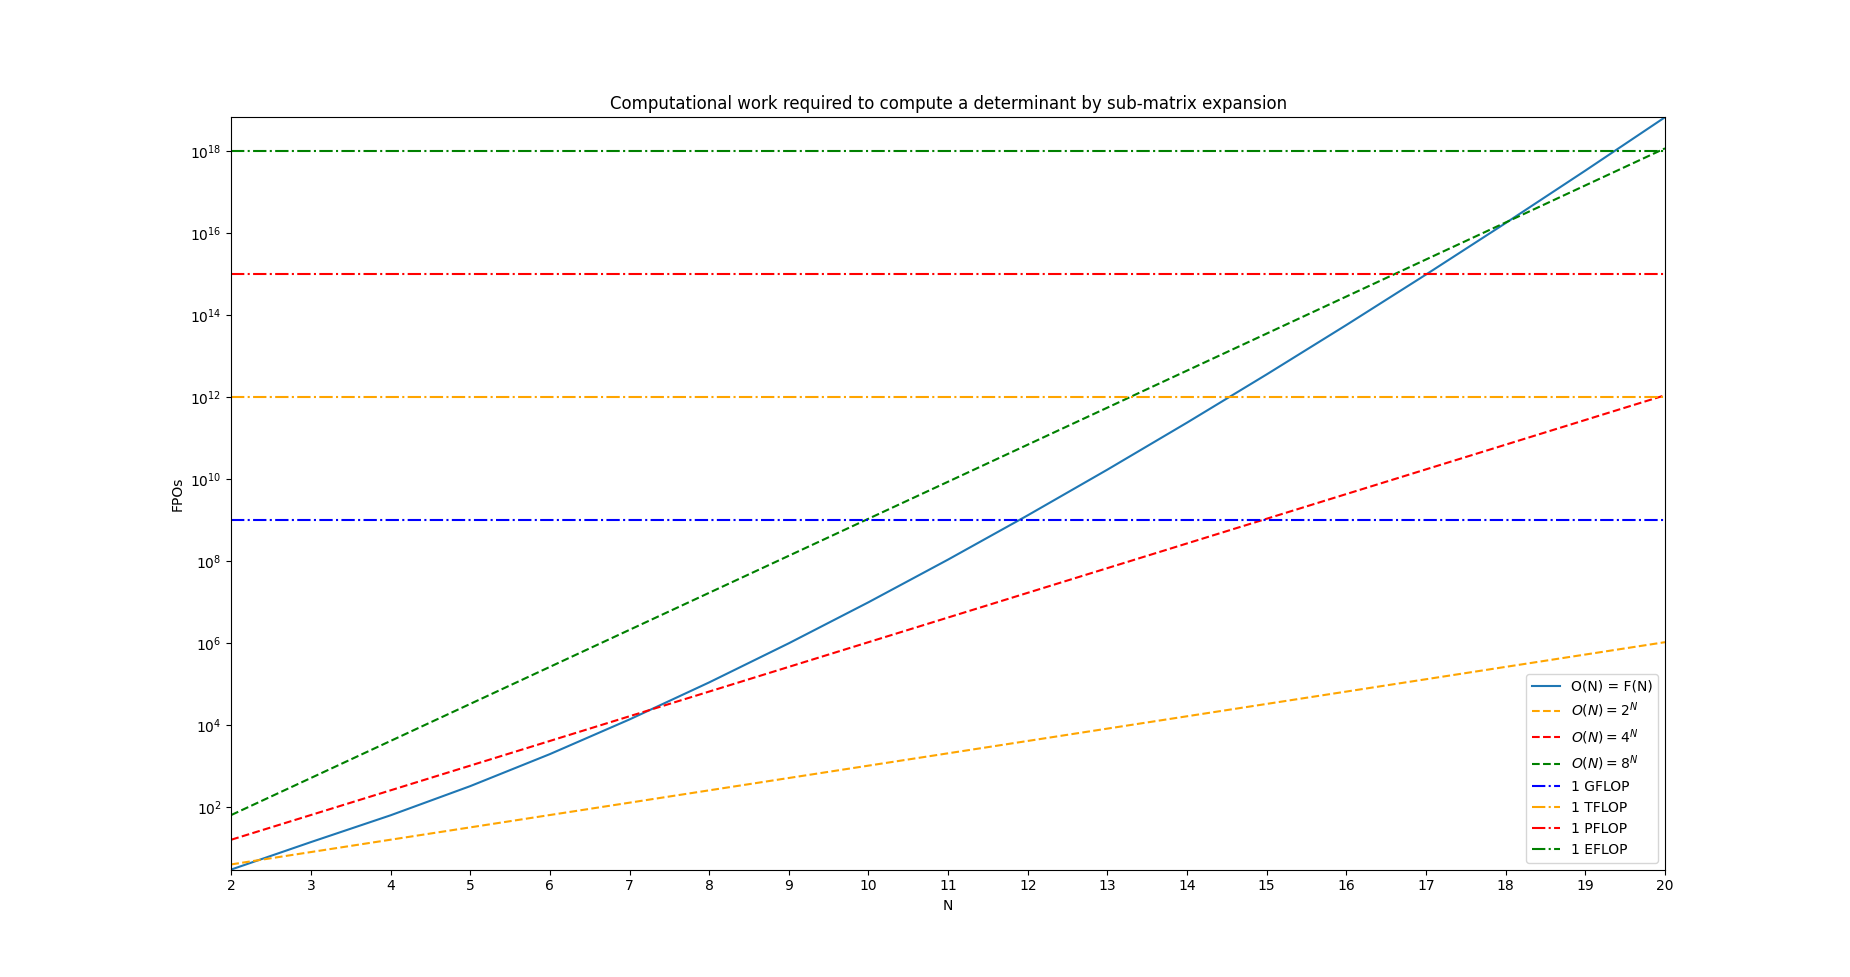
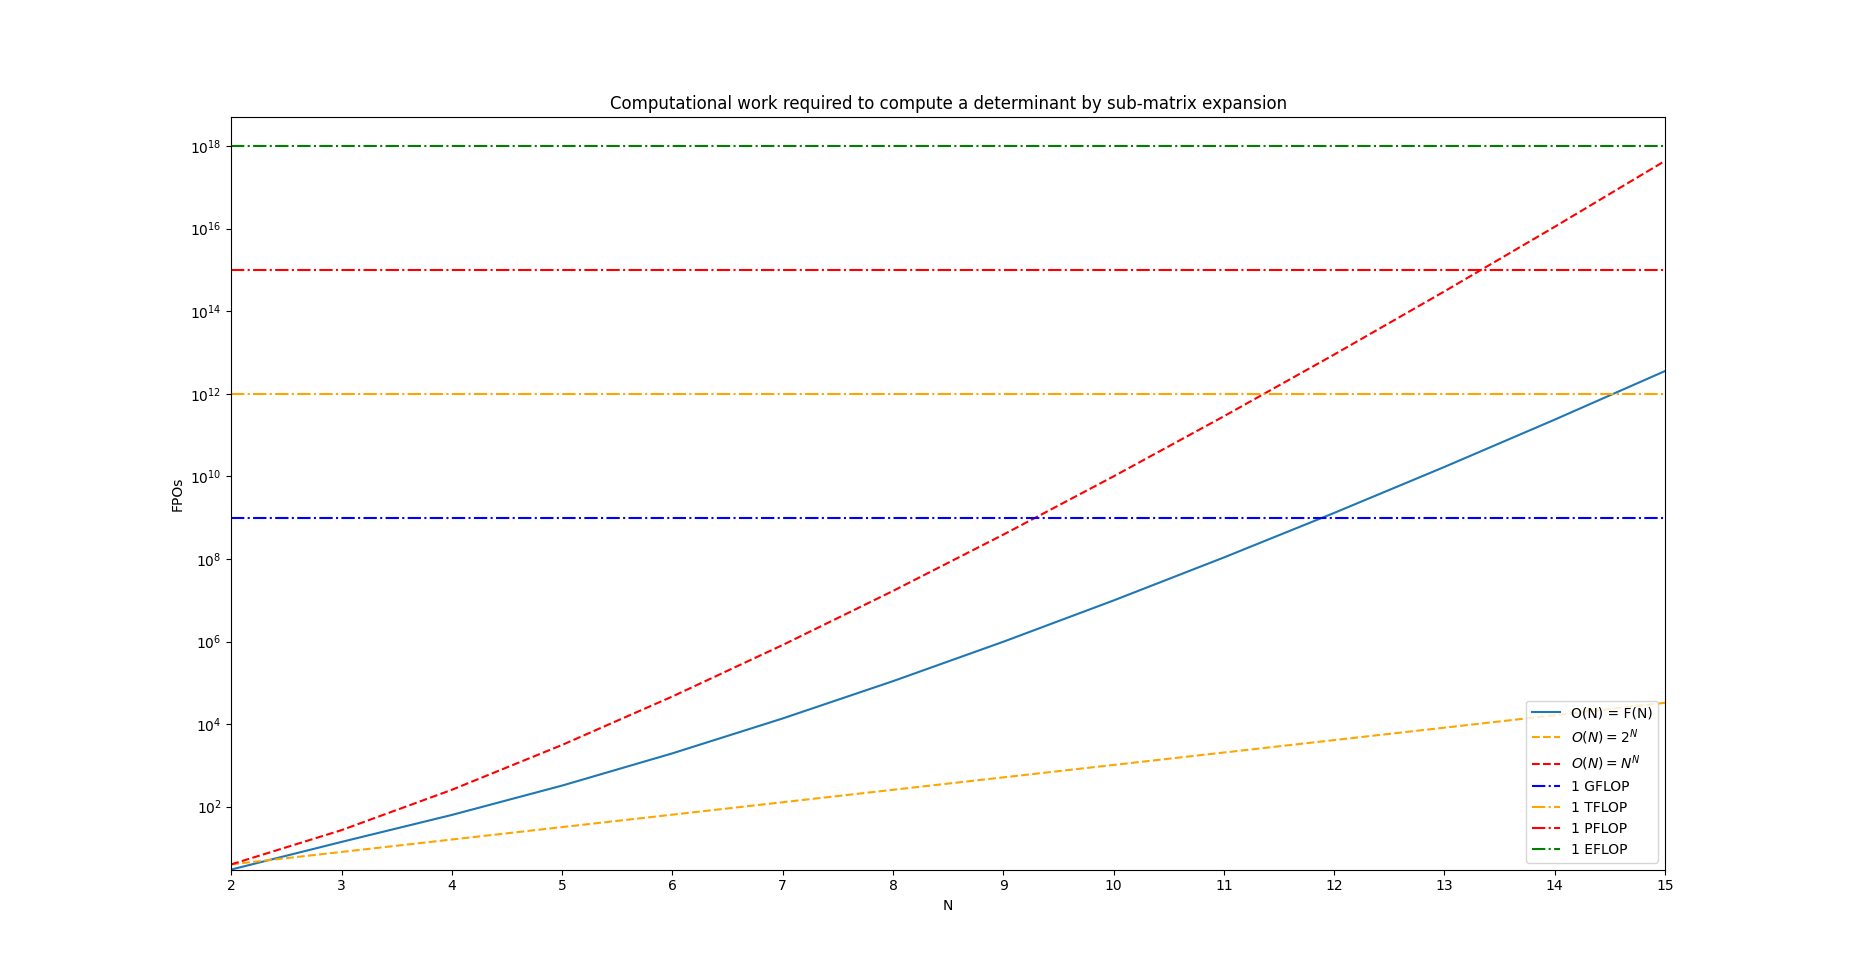
Working on combat simulator for iwdee

diff --git a/visualizations/complexity/determinant.py b/visualizations/complexity/determinant.py
@@ -16,8 +16,9 @@ print(rt_list)
 
 plt.semilogy(N_list, rt_list, linestyle='-', label='O(N) = F(N)')
 plt.semilogy(N_list, 2**N_list, linestyle='--', color='orange', label='$O(N) = 2^{N}$')
-plt.semilogy(N_list, 4**N_list, linestyle='--', color='red', label='$O(N) = 4^{N}$')
-plt.semilogy(N_list, 8**N_list, linestyle='--', color='green', label='$O(N) = 8^{N}$')
+# plt.semilogy(N_list, 4**N_list, linestyle='--', color='red', label='$O(N) = 4^{N}$')
+# plt.semilogy(N_list, 8**N_list, linestyle='--', color='green', label='$O(N) = 8^{N}$')
+plt.semilogy(N_list, N_list**N_list, linestyle='--', color='red', label='$O(N) = N^{N}$')
 
 plt.semilogy(N_list, [1e9] * len(N_list), linestyle='-.', color='blue', label='1 GFLOP')
 plt.semilogy(N_list, [1e12] * len(N_list), linestyle='-.', color='orange', label='1 TFLOP')
@@ -26,7 +27,7 @@ plt.semilogy(N_list, [1e18] * len(N_list), linestyle='-.', color='green', label=
 
 plt.xticks(N_list)
 plt.xlim(N_list.min(), N_list.max())
-plt.ylim(min(rt_list), max(rt_list))
+plt.ylim(min(rt_list), 5e18)
 plt.ylabel('FPOs')
 plt.xlabel('N')
 plt.title('Computational work required to compute a determinant by sub-matrix expansion')

diff --git a/iwdee-combatsim/simulator.py b/iwdee-combatsim/simulator.py
@@ -1,0 +1,22 @@
+class Unit:
+    def __init__(self, hp: int, thac0: int, ac: int, apr: float, dam: str):
+        self.hp = hp # hit points
+        self.thac0 = thac0 # "to hit armor class 0"
+        self.ac = ac # armor class
+        self.apr = apr # Attacks per round, 5/2 means 5 attacks every two
+        self.dam = dam
+
+    def computeDamage(dam: str):
+        # Compute the damage a unit does in a swing if it hits 
+
+def combat_round():
+    # Fight a round of combat
+    return
+
+def combat():
+    # Take in two lists of units, and fight to the death
+    return
+
+if __name == "__main__":
+    # Create the lists of units, and fight to the death many times
+    # Obtain statistics on the outcome
